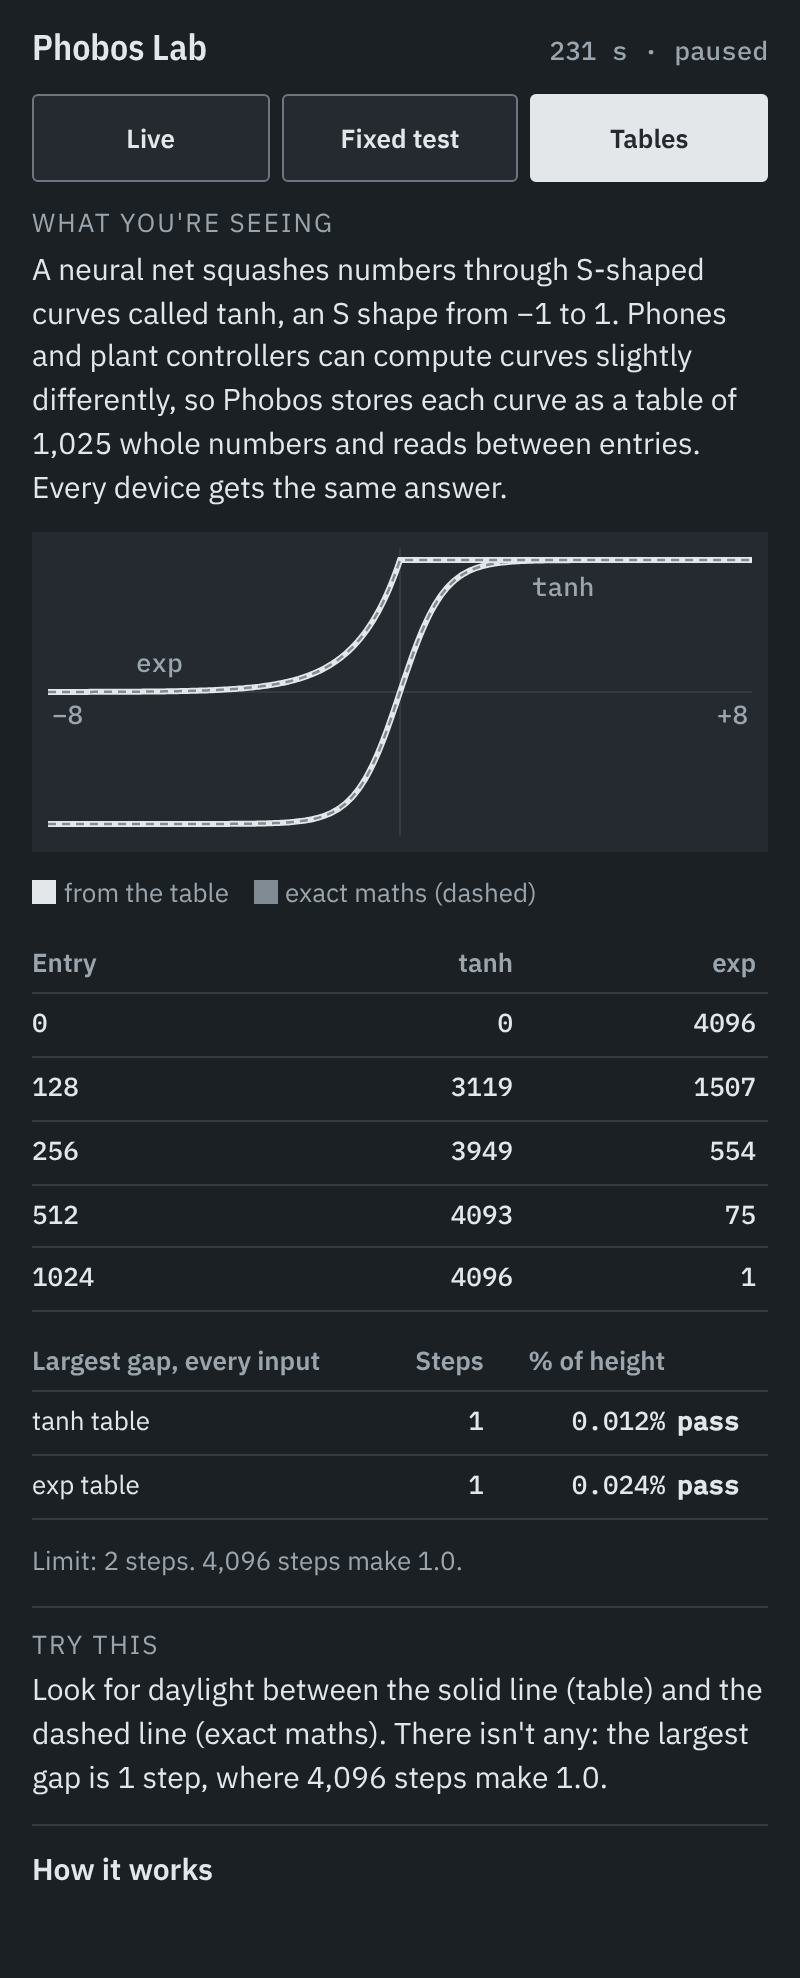
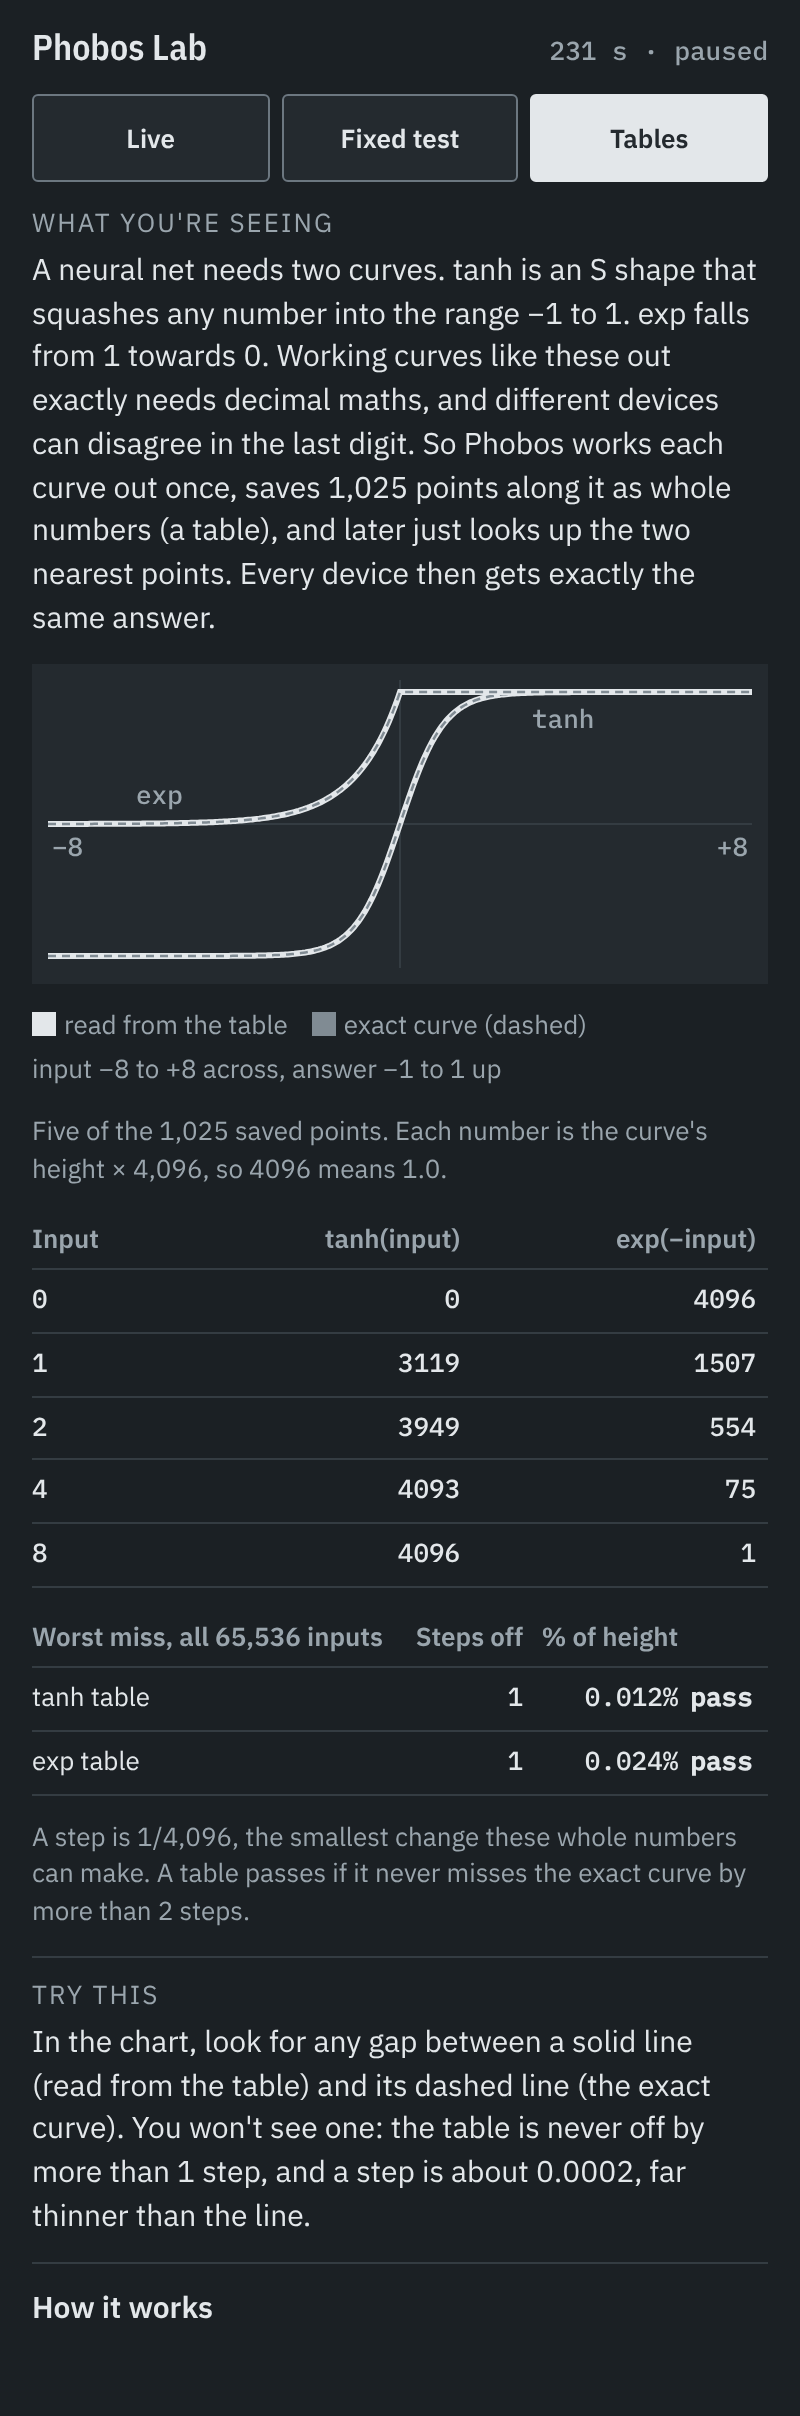
Tables tab: plainer teaching text and labels
Morgan found the Tables tab hard to follow. Explains the chart's axes, adds a
worked example at input 1 with the exact sums, shows inputs instead of table
indexes, and uses plain headings for the worst-miss table. Numbers unchanged.
HANDOFF records the merged state (Morgan approved PR #4).

Claude-Session: https://claude.ai/code/session_01Dr9VTqceUHKthHz9WwS2xf

diff --git a/src/lab/explain.ts b/src/lab/explain.ts
@@ -34,15 +34,19 @@ export const EXPLAIN: Record<string, Explain> = {
     ],
   },
   tables: {
-    what: "A neural net squashes numbers through S-shaped curves called tanh, an S shape from −1 to 1. Phones and plant controllers can compute curves slightly differently, so Phobos stores each curve as a table of 1,025 whole numbers and reads between entries. Every device gets the same answer.",
-    tryit: "Look for daylight between the solid line (table) and the dashed line (exact maths). There isn't any: the largest gap is 1 step, where 4,096 steps make 1.0.",
-    deep: `<p><b>Whole numbers for fractions (Q12).</b> Phobos stores 1.0 as 4096, so 0.5 is 2048 and −0.25 is −1024. Values fit in 16 bits, from −8 up to just under 8. One step, 1/4096 ≈ 0.00024, is called an LSB.</p>
-      <p><b>Reading the table.</b> Entry i holds tanh(i ÷ 128) × 4096, rounded. For an input between two entries, Phobos draws a straight line between them using only adding, multiplying and shifting bits, no decimal maths.</p>
+    what: "A neural net needs two curves. tanh is an S shape that squashes any number into the range −1 to 1. exp falls from 1 towards 0. Working curves like these out exactly needs decimal maths, and different devices can disagree in the last digit. So Phobos works each curve out once, saves 1,025 points along it as whole numbers (a table), and later just looks up the two nearest points. Every device then gets exactly the same answer.",
+    tryit: "In the chart, look for any gap between a solid line (read from the table) and its dashed line (the exact curve). You won't see one: the table is never off by more than 1 step, and a step is about 0.0002, far thinner than the line.",
+    deep: `<p><b>The chart.</b> Left to right is the input, from −8 to +8. Up and down is the answer, from −1 to 1. The S-shaped line is tanh; the line that rises from near 0 to 1 on the left half and then stays flat is exp.</p>
+      <p><b>Whole numbers for fractions.</b> Phobos stores 1.0 as 4096, so 0.5 is 2048 and −0.25 is −1024. Divide by 4,096 to get the real value back. The numbers fit in 16 bits, so they run from −8 to just under 8. The smallest change, 1 ÷ 4,096 ≈ 0.00024, is one step; engineers call it an LSB. This format is called Q12.</p>
+      <p><b>What is saved.</b> Each table holds the curve at 1,025 evenly spaced inputs from 0 to 8, one every 1/128. The small table above shows five of them. For example at input 1: tanh(1) = 0.761594, and 0.761594 × 4,096 = 3119.49, which rounds to 3119. exp(−1) = 0.367879, and 0.367879 × 4,096 = 1506.83, which rounds to 1507.</p>
+      <p><b>Reading between points.</b> Most inputs fall between two saved points. Phobos draws a straight line between the two and reads off the height, using only adding, multiplying and shifting bits, no decimal maths. The points are so close together that the straight piece and the true curve almost match. Negative inputs reuse the tanh table with the sign flipped, because tanh is the same shape upside down on that side.</p>
       <p><b>The check.</b> Every one of the 65,536 possible inputs is compared with the exact curve. The table must be within 2 LSB; it is within 1 LSB for tanh and 1 for exp. As a share of the curve's height that is 0.012% for tanh and 0.024% for exp. The page works these numbers out again when it opens.</p>
-      <p><b>exp</b> is the falling curve from 1 towards 0. It is the second table the runtime needs. Its input is kept at 0 or below, so the table only covers the falling half.</p>`,
+      <p><b>exp</b> is only needed for inputs of 0 or below (falling from 1 at 0 towards 0 at −8), so its table covers that half and any positive input gives 1.</p>`,
     words: [
       ["tanh", "hyperbolic tangent, the S-shaped squashing curve"],
-      ["LSB", "least significant bit: the smallest step a whole number can take"],
+      ["exp", "the exponential curve; here only its falling half"],
+      ["Table", "a list of saved points along a curve"],
+      ["LSB", "least significant bit: the smallest step a whole number can take, here 1/4,096"],
     ],
   },
 };

diff --git a/src/lab/main.ts b/src/lab/main.ts
@@ -55,13 +55,14 @@ function mount() {
     <section class="panel" id="panel-tables" data-panel="tables" role="tabpanel" aria-labelledby="tab-tables" hidden>
       ${tx.what}
       <canvas id="tchart" role="img" aria-label="tanh and exp from the integer tables drawn over the exact curves, inputs −8 to 8"></canvas>
-      <div class="key"><span><i class="k-sp"></i>from the table</span><span><i class="k-valve"></i>exact maths (dashed)</span></div>
-      <table id="t-entries"><tr><th>Entry</th><th class="num">tanh</th><th class="num">exp</th></tr>${ENTRY_ROWS.map(i =>
-        `<tr data-i="${i}"><td class="mono">${i}</td><td class="num">${TANH[i]}</td><td class="num">${EXP[i]}</td></tr>`).join("")}</table>
-      <table id="t-gaps"><tr><th>Largest gap, every input</th><th class="num">Steps</th><th class="num">% of height</th><th></th></tr>
+      <div class="key"><span><i class="k-sp"></i>read from the table</span><span><i class="k-valve"></i>exact curve (dashed)</span><span>input −8 to +8 across, answer −1 to 1 up</span></div>
+      <p class="note">Five of the 1,025 saved points. Each number is the curve's height × 4,096, so 4096 means 1.0.</p>
+      <table id="t-entries"><tr><th>Input</th><th class="num">tanh(input)</th><th class="num">exp(−input)</th></tr>${ENTRY_ROWS.map(i =>
+        `<tr data-i="${i}"><td class="mono">${i / 128}</td><td class="num">${TANH[i]}</td><td class="num">${EXP[i]}</td></tr>`).join("")}</table>
+      <table id="t-gaps"><tr><th>Worst miss, all 65,536 inputs</th><th class="num">Steps off</th><th class="num">% of height</th><th></th></tr>
         <tr data-f="tanh"><td>tanh table</td><td class="num"></td><td class="num"></td><td></td></tr>
         <tr data-f="exp"><td>exp table</td><td class="num"></td><td class="num"></td><td></td></tr></table>
-      <p class="status" id="t-status">Limit: ${GAP_LIMIT} steps. 4,096 steps make 1.0.</p>
+      <p class="status" id="t-status">A step is 1/4,096, the smallest change these whole numbers can make. A table passes if it never misses the exact curve by more than ${GAP_LIMIT} steps.</p>
       ${tx.after}
     </section>`;
   const tabs = [...document.querySelectorAll<HTMLButtonElement>(".tab")];

diff --git a/docs/HANDOFF.md b/docs/HANDOFF.md
@@ -4,7 +4,7 @@ Updated: 2026-11-12. A fresh session must be able to continue from this file alo
 
 ## Phase
 
-Building the first usable version: [`docs/specs/first-usable.md`](specs/first-usable.md), approved 2026-11-12. S1 done (PR #2 merged). S2 done (PR #3 merged). S3 built on branch `s3-numbers-tables`, draft PR #4 awaiting Morgan's approval.
+Building the first usable version: [`docs/specs/first-usable.md`](specs/first-usable.md), approved 2026-11-12. S1 done (PR #2 merged). S2 done (PR #3 merged). S3 done (PR #4 merged). Next slice: S4.
 
 ## Plan map
 
@@ -13,8 +13,8 @@ Shown at the start of a session and when asking the owner to approve a PR or a m
 - ✔ Brainstorm, bootstrap, planning interview, spec (PR #1, merged).
 - ✔ S1 Lab v0: tank and PI live (M1), PR #2.
 - ✔ S2 gap per level (M1), PR #3.
-- ▶ S3 numbers and tables (M2), draft PR #4.
-- ○ S4 dense, mask and float reference (M2).
+- ✔ S3 numbers and tables (M2), PR #4.
+- ▶ S4 dense, mask and float reference (M2).
 - ○ S5 copy the PI, S6 evolution strategies, replay and verdict (M3).
 - ○ Vulcan test bench, then Vulcan brain; Later list in D-004.
 
@@ -29,11 +29,11 @@ Shown at the start of a session and when asking the owner to approve a PR or a m
 - 2026-11-12 S2 built: `src/sim/{fixed-test,net-inputs,check-states}.ts`, `scripts/fixed-test.ts` (`npm run fixed-test`), Lab tab row and Fixed test tab with teaching text, tests 28 (was 14), e2e compares the page's bars with Node's numbers. Repo numbers equal the mock-up's throwaway script: totals fixed 50.94, retuned 47.58 m·s. 6 planted bugs all caught (VER-10). Lab republished to the same link. Morgan approved PR #3 on 2026-11-12 and asked for a new session for S3.
 
 - 2026-11-12 S3 built: `src/num/{fixed,layer,act,quantise,gen,table-errors}.ts`, `scripts/gen-tables.ts` (`npm run gen-tables`), committed `src/num/tables.gen.ts`, Tables tab with teaching text, `docs/NUMBERS.md`, `shr` exception in AGENTS.md. Tests 42 (was 28); check 1.27 to 1.31 s. Tests failed first (modules missing); 12 planted bugs all caught after adding an exact-32767 quantise case. Measured largest gap over all 65,536 inputs: 1 LSB for tanh (0.012%) and exp (0.024%), limit 2; equal to the mock-up's script. Regeneration is byte-identical. e2e compares the page's entries and gaps with Node's.
+- 2026-11-12 Morgan found the Tables tab hard to follow; text rewritten plainer (chart axes, worked example at input 1, Input column, plain table headings). Morgan approved PR #4 the same day.
 
 ## Next
 
-1. Morgan reviews draft [PR #4](https://github.com/DdraigFawr13/project-phobos/pull/4) and the republished [Phobos Lab](https://claude.ai/artifact/2eQjCCQENdA99wAmgwPsDb) (Tables tab). On approval: merged state here, ready, auto-merge (GIT-08).
-2. Then a new session for S4 (dense, mask, float reference) per the spec.
+1. New session, new branch from `main`: build S4 (dense, mask, float reference) per the spec: `src/runtime/*`, `src/ref/*`, `src/model/*`, `src/sim/net-controller.ts`, Integer vs float tab with its teaching text, `tests/runtime.test.ts`, `tests/golden/runtime-testnet.json`. Write the checks first and see them fail (VER-10). Morgan found the S3 Tables text hard to follow: write S4's in the same plain style (a worked example with real numbers, what each axis and column means). Republish Lab to the same link.
 
 Pages: [round 1](https://claude.ai/artifact/Cf3i4h6nnKDjhqrQQkbusS), [review 1](https://claude.ai/artifact/SXWLYu44MHB6seWk7yWTjH), [final](https://claude.ai/artifact/EPc7sMpHjHwUNHP96HVwvJ), [spec approval](https://claude.ai/artifact/MHEfcPTujwT9AaCHoHZdLR).
 
